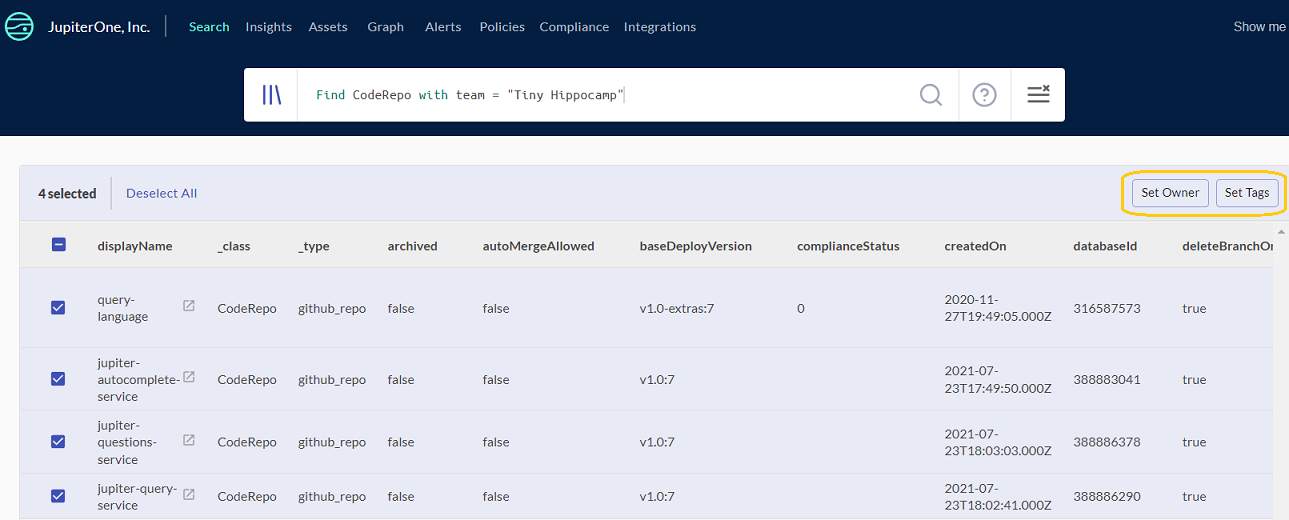
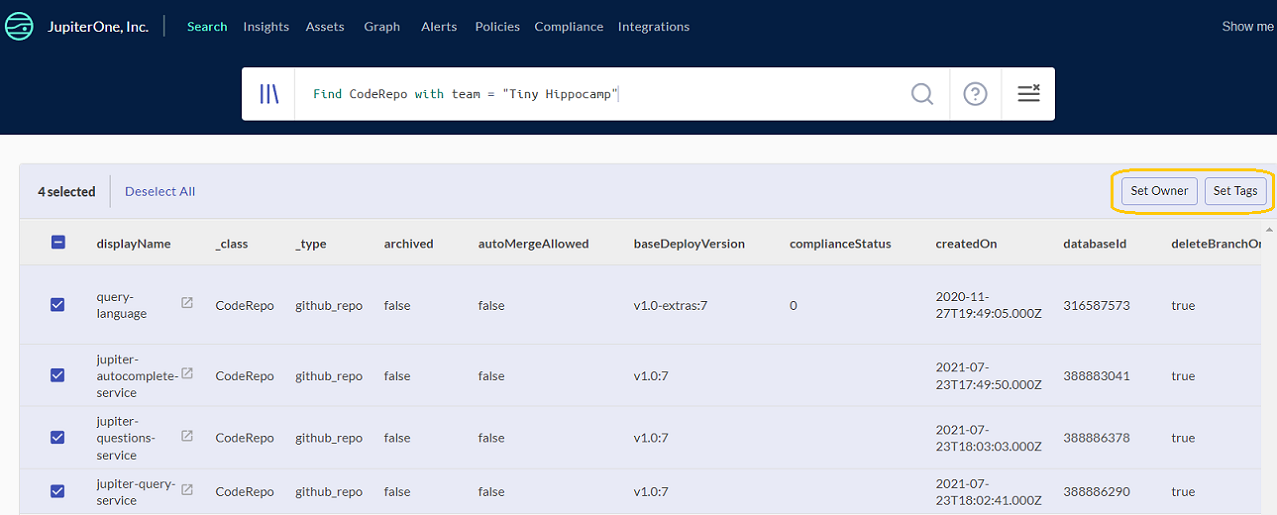
DOC-174

diff --git a/knowledgeBase/jupiterOne-query-language_(J1QL)/adv-example-resources-not-tagged.md b/knowledgeBase/jupiterOne-query-language_(J1QL)/adv-example-resources-not-tagged.md
@@ -1,24 +1,14 @@
-# Query Resources Without Specific Tags
+# Query Resources with/without Specific Tags
 
-Tagging is highly recommended for resources in cloud environments such as AWS, Azure, and GCP. For example, it is common to use tags to track `cost-center` or `project`. And it is recommended to assign `classification` tag to all databases and data stores (e.g. buckets, blobs, disks).
+Tagging is highly recommended for resources in cloud environments such as AWS, Azure, and GCP. For example, it is common to use tags to track `cost-center` or `project`. It is recommended that you assign `classification` tag to all databases and data stores, such as buckets, blobs, disks.
 
-## TL;DR
+## Query Resources with Tags
 
 Use this example query:
 
 ```j1ql
 Find (Host|Function|DataStore) with [tag.cost-center] = undefined
 ```
-
-## More detailed walk-through
-
-**To find resources that do _not_ have a certain tag, do the following:**
-
-```j1ql
-Find * with _integrationType = 'aws' and tag.project = undefined
-```
-
-> From the above, `undefined` means the property does not exist on the entity. And `_integrationType = 'aws'` filters only resources from AWS. Change it to `azure` or something else as appropriate.
 
 **For tags with special characters such as `-`, use `[ ]` around the tag property:**
 
@@ -28,11 +18,11 @@ Find * with _integrationType = 'aws' and [tag.cost-center] = undefined
 
 **Why not just use `Find *` to cover everything?**
 
-`Find *` searches across all resources, including all integrations, mapped entities, and those pushed via API or created via the UI. This will return _many_ false positives, and makes the query slow.
+`Find *` searches across all resources, including all integrations, mapped entities, and those pushed via API or created via the UI. This query returns _many_ false positives, and makes the query slow.
 
-**More fine tuning to reduce noise:**
+**More fine tuning to reduce noise:*
 
-Many entities such as `Account`, `Service`, `AccessPolicy` (e.g. `aws_iam_policy`) etc. will likely not have these custom tags applied, so even querying with `_integrationType = 'aws'` will generate some noise. However, it will be painful to write a query for each resource type -- there could be 100 of them!
+Many entities such as `Account`, `Service`, `AccessPolicy` such as`aws_iam_policy` are likely to not have these custom tags applied, so even querying with `_integrationType = 'aws'` generates some noise. However, it is painful to write a query for each resource type -- there could be 100 of them!
 
 This is where leveraging the `class` and combination syntax in the query becomes extremely helpful. For example:
 
@@ -40,4 +30,24 @@ This is where leveraging the `class` and combination syntax in the query becomes
 Find (Host|Function|DataStore) with [tag.cost-center] = undefined
 ```
 
-Still a single query, without the noise. The three classes `Host`, `Function`, and `DataStore` in includes a couple dozens of types, and covers resources you are not using today but may start using in the future that are of those classes. You can add additional classes to the query as needed.
+Still a single query, without the noise. The three classes `Host`, `Function`, and `DataStore` include a couple dozens of types, and covers resources you are not using today but may start using in the future that are of those classes. You can add additional classes to the query as needed.
+
+## Query Resources without Tags
+
+**To find resources that do _not_ have a certain tag, do the following:**
+
+```j1ql
+Find * with _integrationType = 'aws' and tag.project = undefined
+```
+
+From the above, `undefined` means the property does not exist on the entity. And `_integrationType = 'aws'` filters only resources from AWS. Change it to `azure` or something else as appropriate.
+
+## Bulk Actions from the UI
+
+J1 enables you to bulk set tags from the UI for any resources that you find that do not have the tags or owners. From your query results, select all and click **Set Owner** or **Set Tags**.
+
+
+![](../assets/bulk-action.png) 
+
+
+
